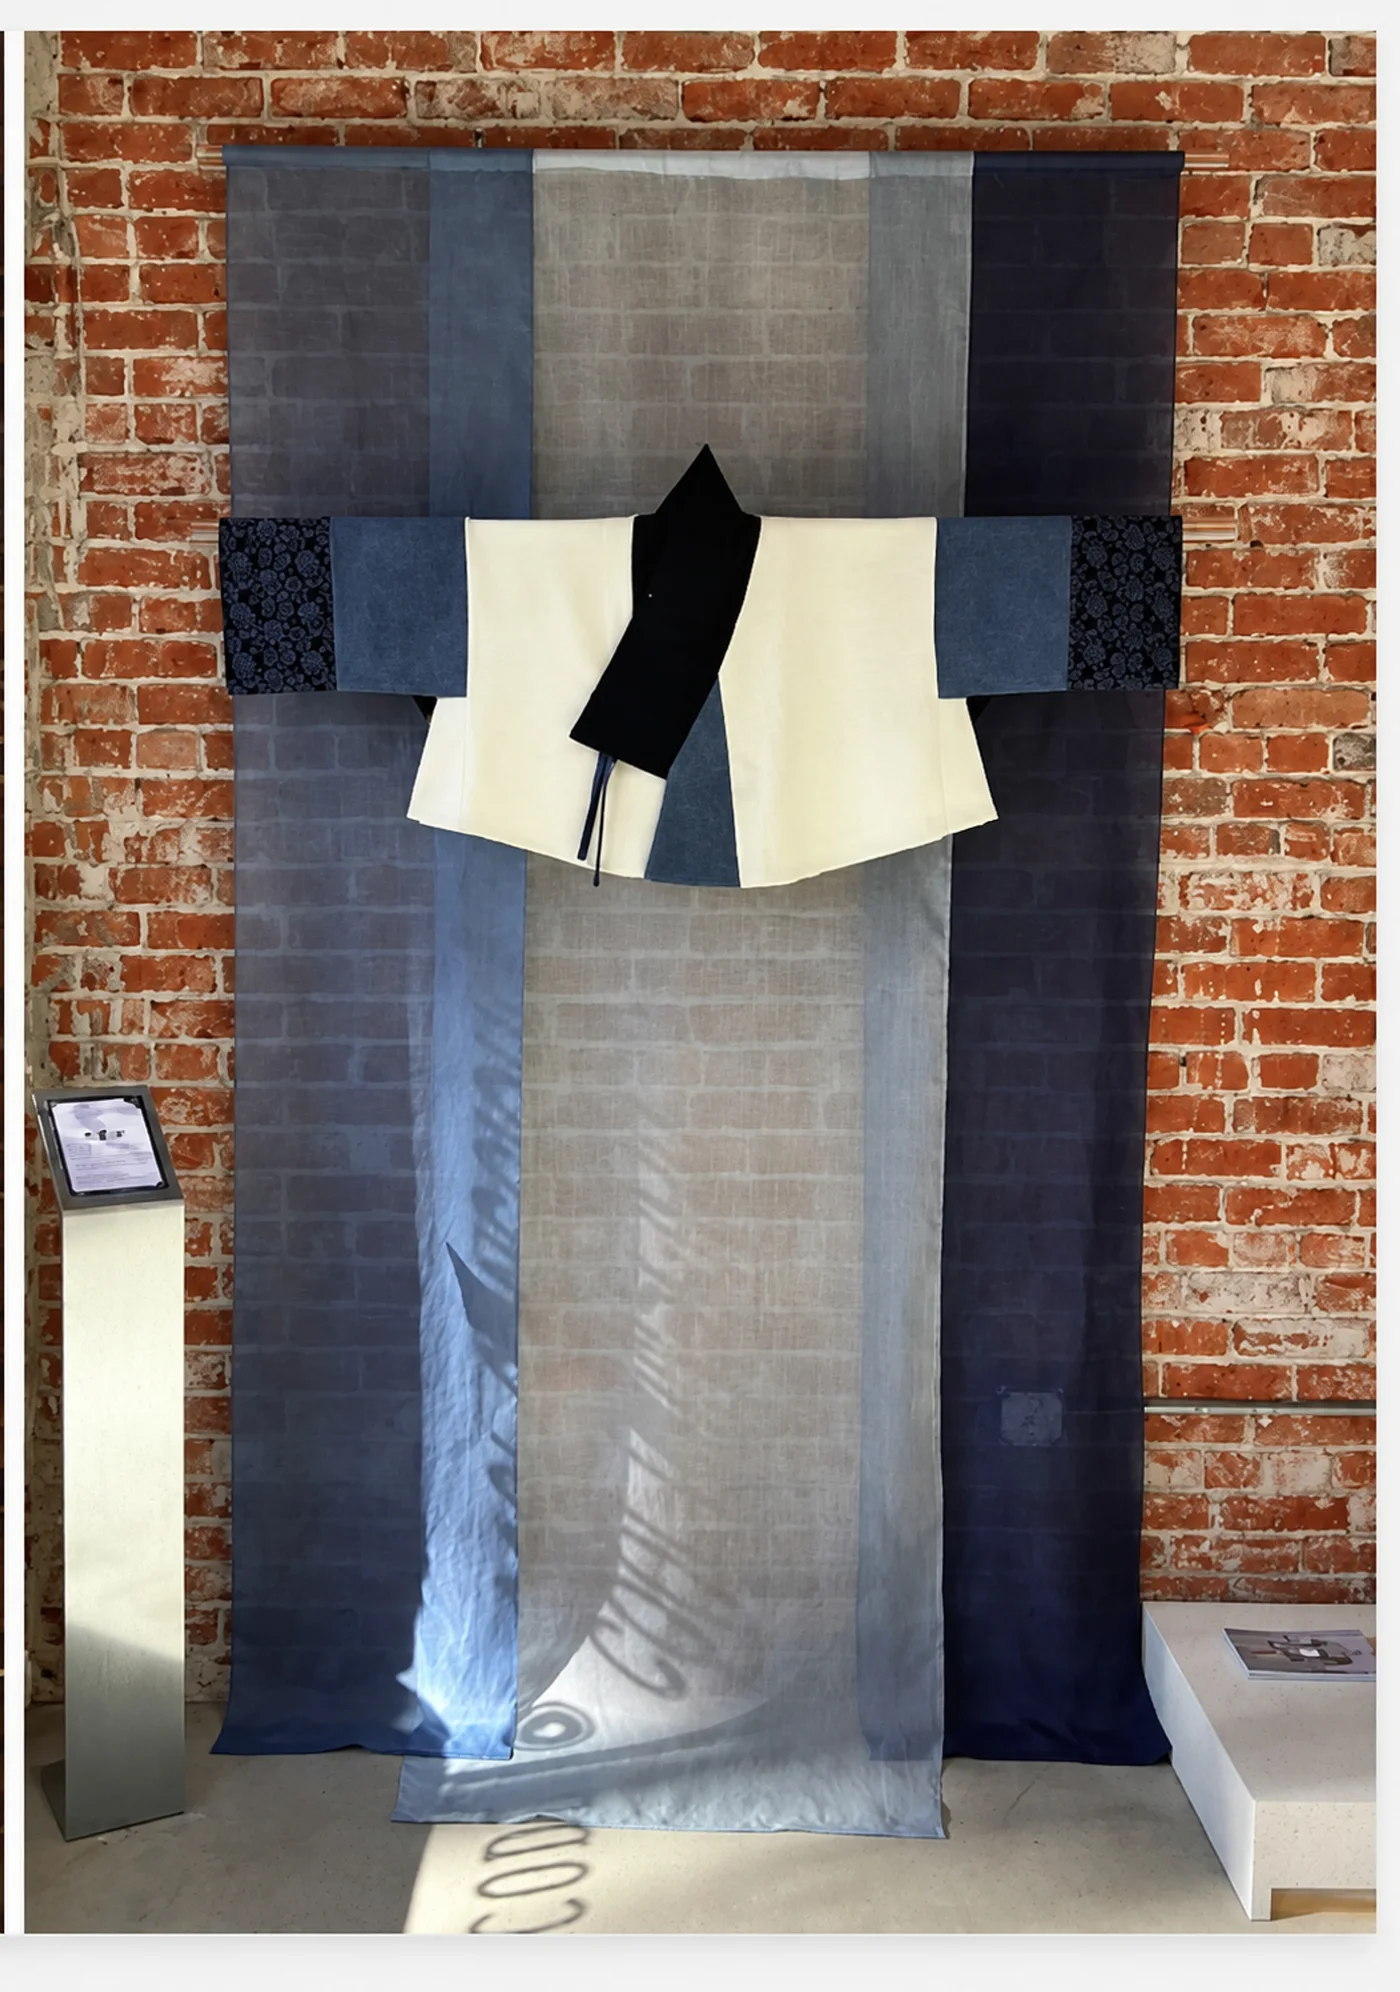
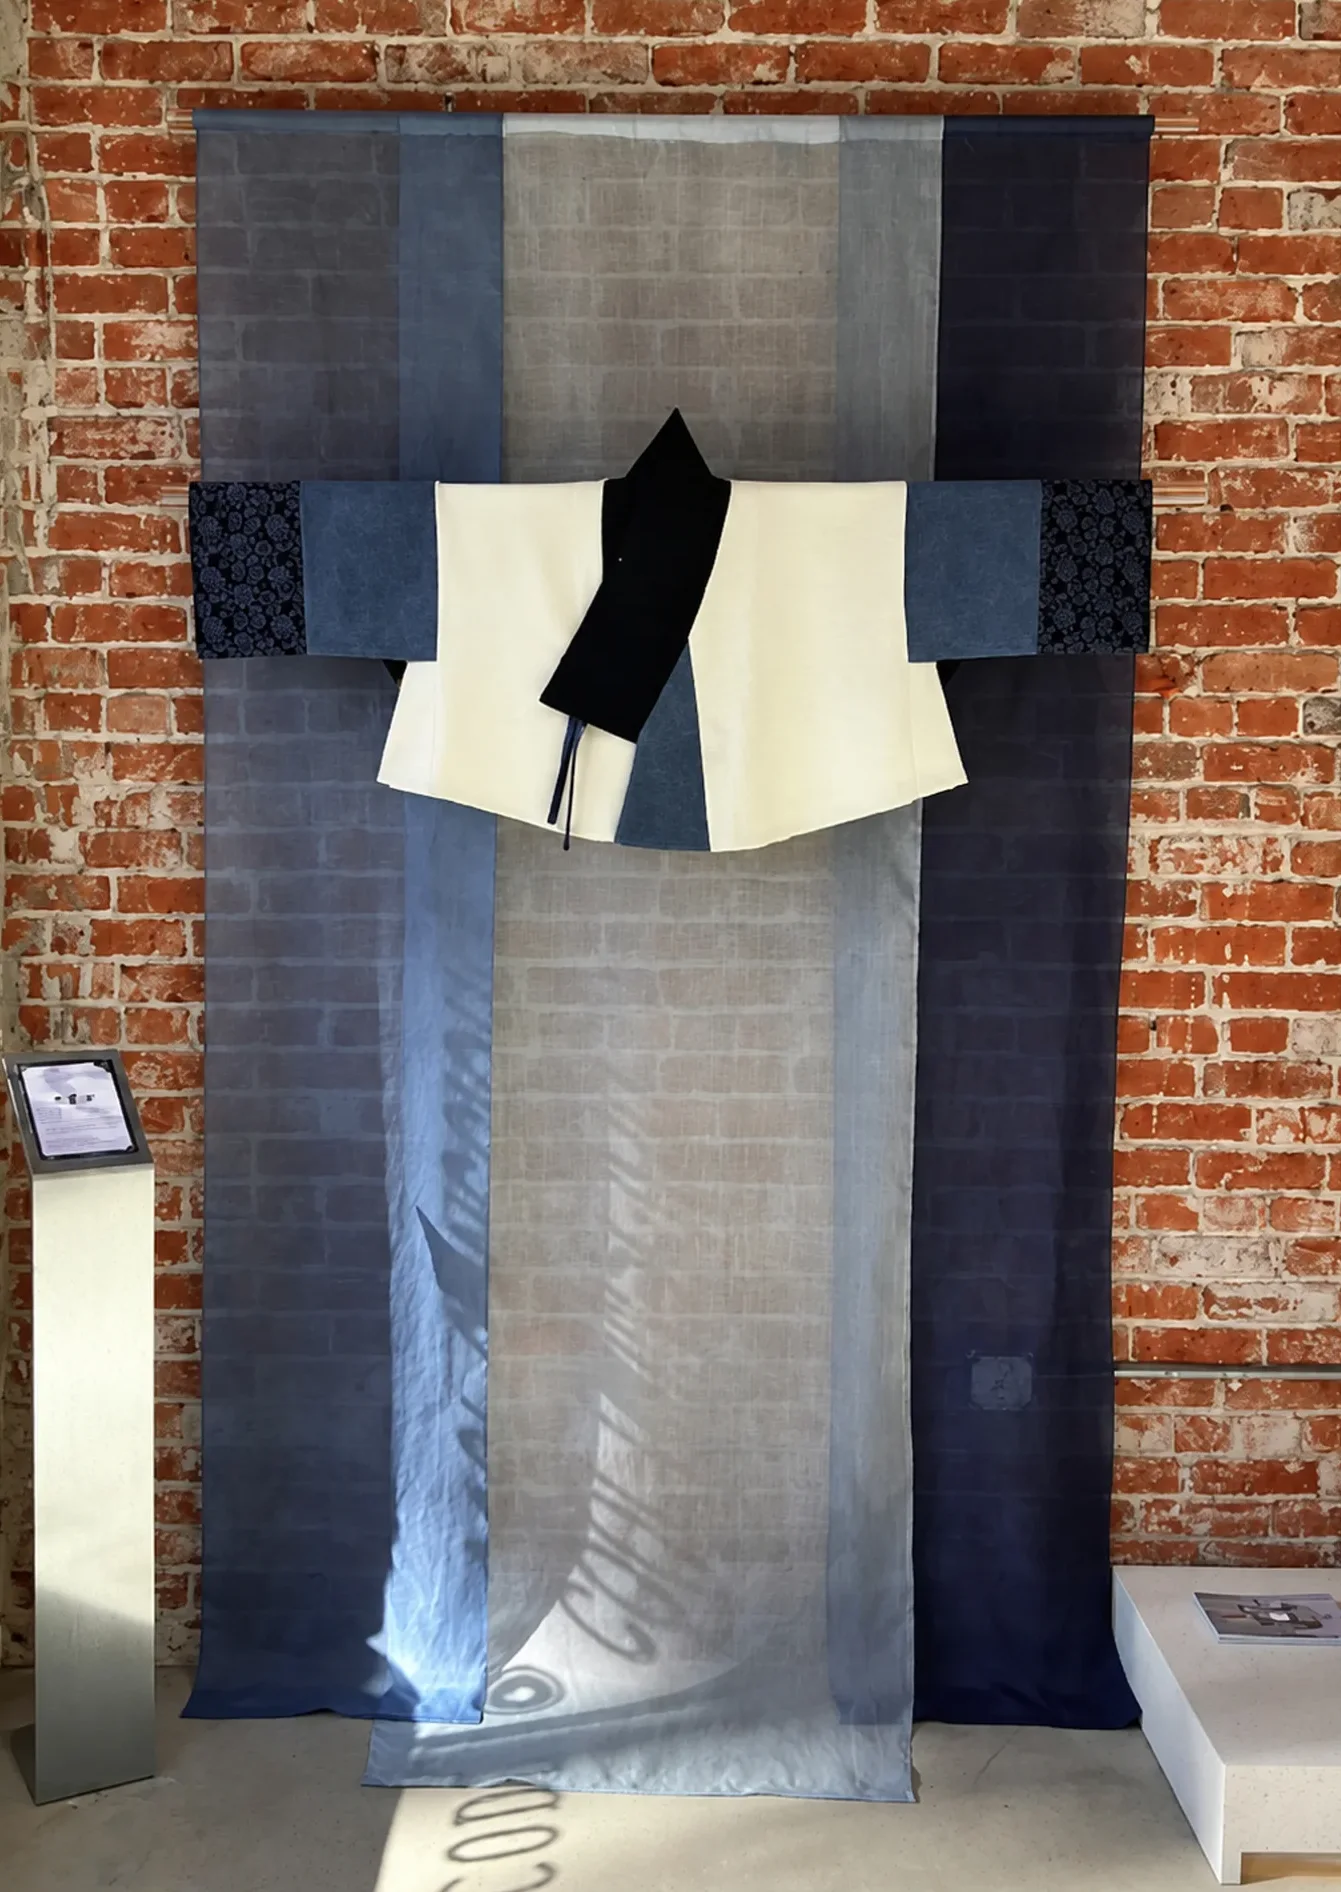
fix(dyeing): 히어로 전시 사진의 가장자리 여백을 잘라 내고 떠 보이게 한다
- 사진 가장자리의 밝은 회색 여백(위 약 30px · 아래 약 55px · 좌우 약 25px)과 왼쪽 끝 검은 선을 잘라 냄(1400×1992 → 1341×1892, 2026-10-07 고객 요청)
- 테두리 대신 남색 기운의 그림자 두 겹과 1px 옅은 링, 둥근 모서리로 사진이 바탕에서 떠 보이게 한다

diff --git a/src/app/[locale]/dyeing-printing/page.tsx b/src/app/[locale]/dyeing-printing/page.tsx
@@ -43,8 +43,9 @@ export default async function DyeingPrintingPage({
   return (
     <>
       {/* 히어로 — 왼쪽 카피 · 이동 메뉴, 오른쪽 전시 설치 사진(2026-10-06 고객 제공 · 요청).
-          사진은 세로(1400×1992)라 PC 에서는 오른쪽 열(약 42%)에 세워 크게, 좁은 화면에서는 카피 아래에 폭을 채워 둔다.
-          첫 화면이라 지연 로딩하지 않는다. 사진 위에 문구를 올리지 않는다. */}
+          사진은 세로(1341×1892 — 2026-10-07 가장자리 여백을 잘라 낸 뒤 크기)라 PC 에서는 오른쪽 열(약 42%)에 세워 크게, 좁은 화면에서는 카피 아래에 폭을 채워 둔다.
+          첫 화면이라 지연 로딩하지 않는다. 사진 위에 문구를 올리지 않는다.
+          2026-10-07 고객 요청으로 테두리 대신 남색 기운의 그림자와 옅은 링을 둬 사진이 떠 보이게 한다. */}
       <section className="w-full border-b border-[color:var(--color-washed)] bg-[var(--color-ivory)]">
         <div className="mx-auto max-w-[1280px] px-4 py-16 sm:px-6 sm:py-20 lg:px-8 lg:py-24">
           <div className="grid gap-10 lg:grid-cols-[minmax(0,1fr)_minmax(0,42%)] lg:items-center lg:gap-16">
@@ -78,12 +79,12 @@ export default async function DyeingPrintingPage({
               <Image
                 src="/blugene/performance/exhibition-indigo-installation.webp"
                 alt={t('heroImageAlt')}
-                width={1400}
-                height={1992}
+                width={1341}
+                height={1892}
                 preload
                 fetchPriority="high"
                 sizes="(max-width: 640px) 92vw, (max-width: 1024px) 560px, 520px"
-                className="h-auto w-full rounded-md border border-[color:var(--color-washed)] bg-white"
+                className="h-auto w-full rounded-lg bg-white shadow-[0_28px_56px_-24px_rgba(16,29,70,0.55),0_10px_20px_-10px_rgba(16,29,70,0.25)] ring-1 ring-[color:var(--color-indigo-deep)]/10"
               />
               <figcaption className="mt-2.5 text-[0.8125rem] leading-relaxed break-keep text-[var(--color-slate-muted)]">
                 {t('heroImageCaption')}
